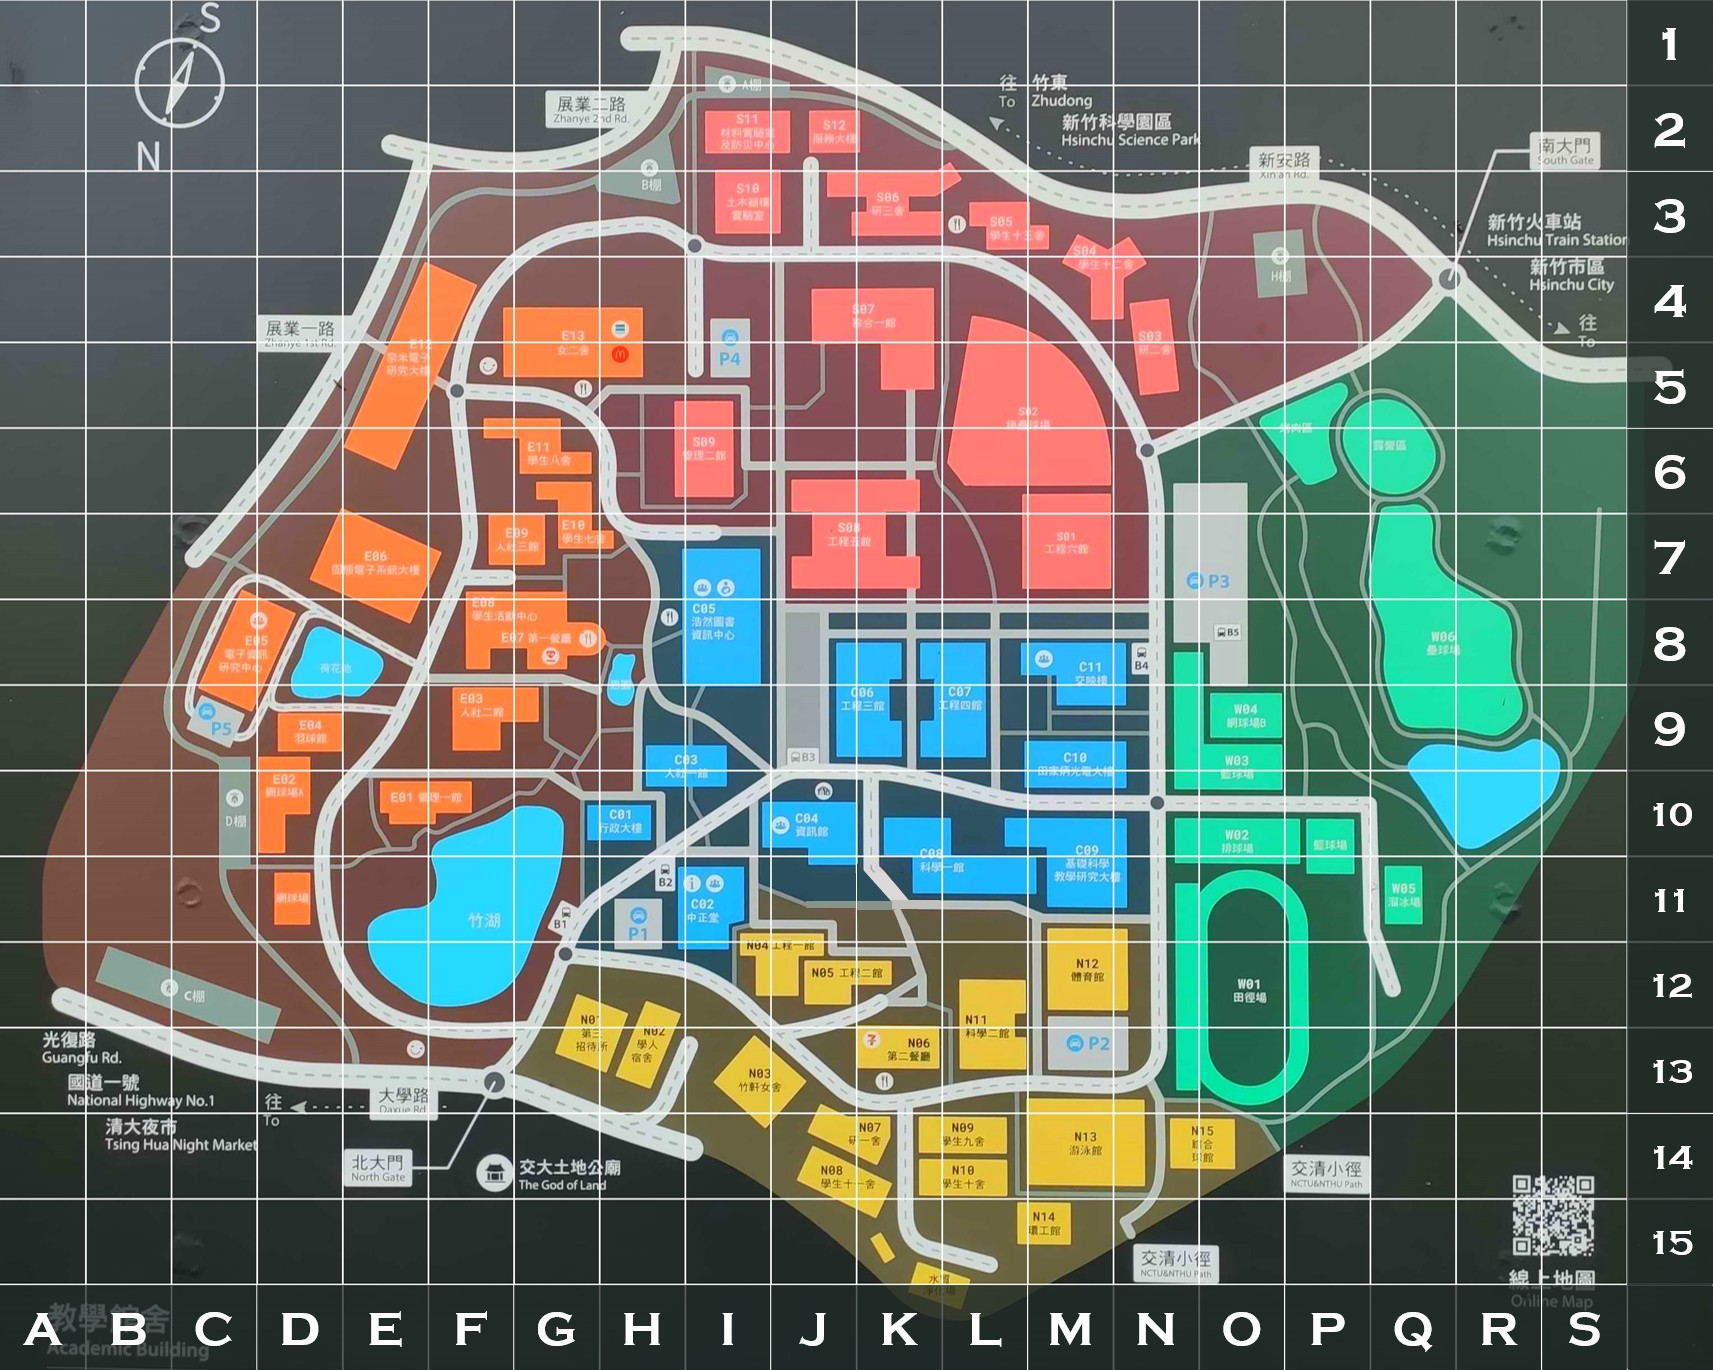
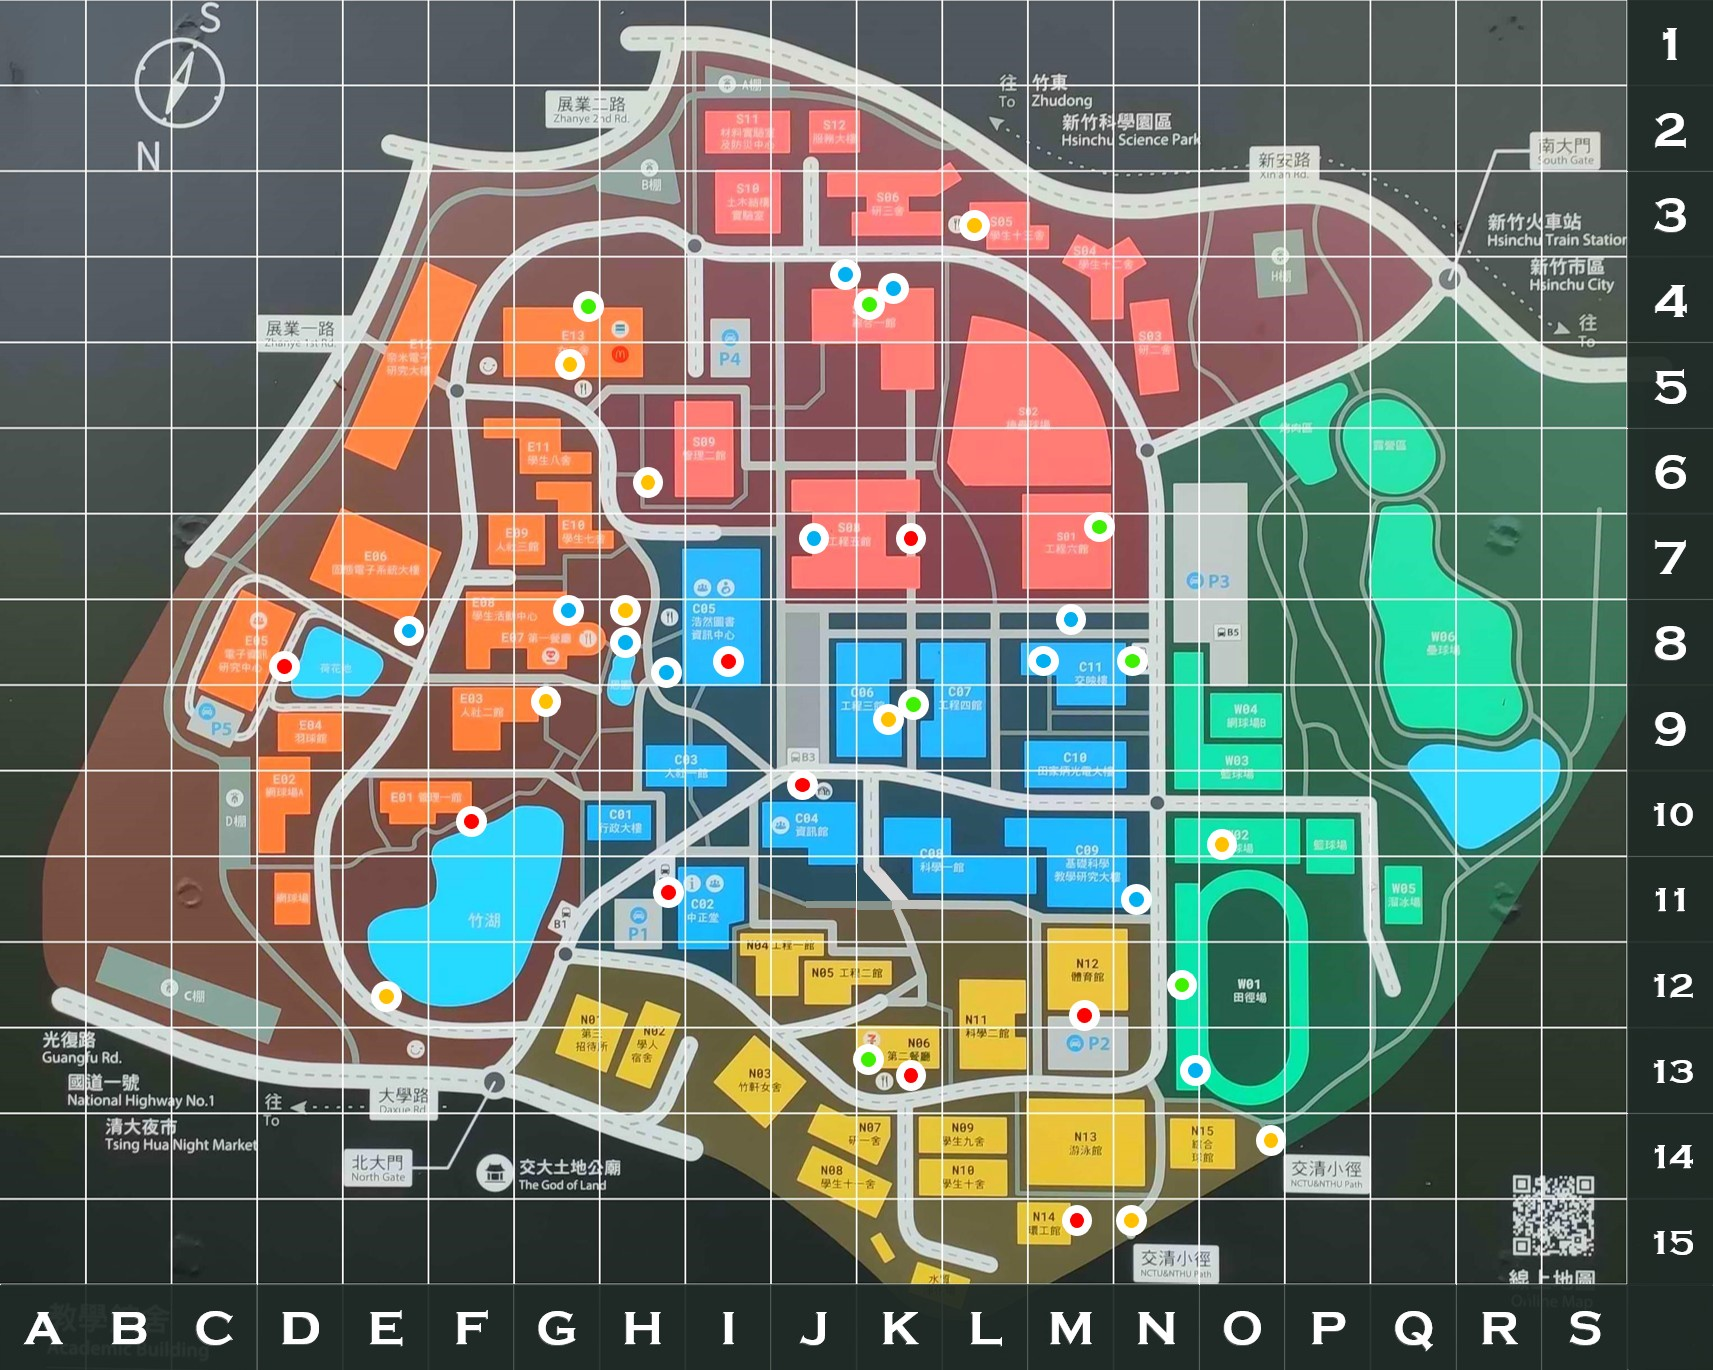
fixed everything i guess. --lr

diff --git a/client/src/components/ScoreList.js b/client/src/components/ScoreList.js
@@ -17,6 +17,7 @@ export default function Score(props) {
   const [tasksDone, setTasksDone] = useState([]);
   const [teams, setTeams] = useState([]);
   const [teamScore, setTeamScore] = useState([]);
+  const [ownScore, setOwnScore] = useState(0);
 
   useEffect(() => {
     const fetchData = async() => {
@@ -42,6 +43,17 @@ export default function Score(props) {
     })
   }, [socket]);
 
+  const loadOwnScore = useCallback( (tasksDone) => {
+    var team_score = 0;
+
+    tasksDone.forEach( (doneTask) => {
+      if (doneTask.teamId === user.teamId)
+        team_score += doneTask.score;
+    });
+
+    return team_score;
+  }, [user.teamId])
+
   const loadScore = useCallback( (tasksDone) => {
     var team_score = initTeamScore(teams);
     var over_cnt = 0;
@@ -60,11 +72,12 @@ export default function Score(props) {
 
   useEffect(() => {
     setTeamScore(loadScore(tasksDone));
-  }, [tasksDone, loadScore]);
+    setOwnScore(loadOwnScore(tasksDone));
+  }, [tasksDone, loadScore, loadOwnScore]);
 
   const initTeamScore = (teams) => {
     var team_score = {};
-    teams.forEach( (team) => team_score[team._id] = {_id: team._id, teamName: team.teamName, gold: 0, silver: 0, bronze: 0, iron: 0, score: 0 });
+    teams.forEach( (team) => team_score[team._id] = {_id: team._id, teamName: team.teamName, teamEmoji: team.teamEmoji, gold: 0, silver: 0, bronze: 0, iron: 0, score: 0 });
     return team_score;
   }
 
@@ -104,16 +117,17 @@ export default function Score(props) {
 
   const iterList = teamScore.map((ts, i) => {
     return (
-      <div className={`max-w-prose mx-auto rounded-xl shadow-md hover:shadow-xl p-8 ring-red-700 ${ts._id === user.teamId ? "ring-4" : ""}`} key = {"score_" + ts._id} style = {{background: i === 0 ? "#ffe552": i === 1 ? "#cdcdcd": i === 2 ? "#d28c47": "white"}}>
-        <Scoreboard teamId={ts._id} teamName={ts.teamName} gold={ts.gold} silver={ts.silver} bronze={ts.bronze} iron={ts.iron} score={ts.score}/>
+      <div className={`max-w-prose h-24 m-auto rounded-xl shadow-md hover:shadow-xl p-4 ${ts._id === user.teamId && "ring-4 ring-red-700"}`} key = {"score_" + ts._id} style = {{background: i === 0 ? "#ffe552" : "white"}}>
+        <Scoreboard teamEmoji={ts.teamEmoji} teamId={ts._id} teamName={ts.teamName} gold={ts.gold} silver={ts.silver} bronze={ts.bronze} iron={ts.iron} score={ts.score}/>
       </div>                
     );
   })
   
   return (
-    <div className="fixed left-0 top-0 h-screen w-full overflow-hidden bg-cusorange-500">
-      <h2 className="m-4 text-2xl overflow-hidden text-center">計分榜 {gamestatus.board_freeze ? "*Frozen*" : ""}</h2>
-      <div className="max-w-prose mx-auto p-8">
+    <div className="fixed left-0 top-0 flex flex-col h-screen w-full overflow-hidden bg-cusorange-500">
+      <h2 className="m-4 text-2xl text-center">計分榜 {gamestatus.board_freeze ? "*Frozen*" : ""}</h2>
+
+      <div className="w-full mx-auto p-8">
         <div className="grid grid-cols-6 place-items-center">
           <div className="text-center align-middle uppercase font-bold">team</div>
           <div className="text-center align-middle">
@@ -131,10 +145,14 @@ export default function Score(props) {
           <div className="text-center align-middle uppercase font-bold">score</div>
         </div>
       </div>
-      <FlipMove id="scoreList" className="space-y-4" enterAnimation='accordionVertical'
-        leaveAnimation='accordionVertical'>
-        {iterList}
-      </FlipMove>
+      <div className="flex flex-col w-full h-full p-5">
+        <FlipMove id="scoreList" className="space-y-4" enterAnimation='accordionVertical'
+          leaveAnimation='accordionVertical'>
+          {iterList}
+        </FlipMove>
+      </div>
+
+      <h3 className="m-4 text-2xl text-center">當前分數：{ownScore}</h3>
     </div>
   );
 }

diff --git a/client/src/layers/NewTasks.js b/client/src/layers/NewTasks.js
@@ -38,17 +38,17 @@ export default function Tasks(props) {
         <Map />
       </div>
       <div className={`fixed bottom-0 flex flex-col p-4 w-full overflow-y-hidden rounded bg-gray-400 ${isExpanded ? "h-full" : "h-1/3"}`}>
-        <button className="px-4 w-full mb-2 bg-gray-300 rounded" onClick={() => setIsExpanded((prev) => !prev)}> {`Tasks ${isExpanded ? "collapse" : "expand"}`} </button>
+        <button className="px-4 w-full mb-2 bg-gray-300 rounded" onClick={() => setIsExpanded((prev) => !prev)}> {`${isExpanded ? "收起" : "展開"}`} </button>
         <div className="flex flex-col w-full h-full overflow-y-scroll pl-4 rounded bg-gray-300">
           {tasks.filter(task => !task.done).map((item, i) => (
-            <div layout key={i} className={`flex flex-col py-2 w-full bg-area${item.qtype} rounded my-2 text-center ring-1 ring-gray-600`}>
-            <Item task={item} taskFocus={taskFocus} setTaskFocus={setTaskFocus}/>
+            <div key={i} className={`flex flex-col py-2 w-full rounded my-2 text-center ring-1 ring-gray-600 ${item.qtype === "A" ? "bg-areaA-400" : ""}${item.qtype === "C" ? "bg-areaC-400" : ""}${item.qtype === "E" ? "bg-areaE-400" : ""}${item.qtype === "N" ? "bg-areaN-400" : ""}${item.qtype === "S" ? "bg-areaS-400" : ""}${item.qtype === "W" ? "bg-areaW-400" : ""}`}>
+              <Item task={item} taskFocus={taskFocus} setTaskFocus={setTaskFocus}/>
             </div>
           ))}
 
           {tasks.filter(task => task.done).map((item, i) => (
-            <div layout key={i} className="flex flex-col py-2 w-full bg-gray-500 rounded my-2 text-center ring-1 ring-gray-900">
-            <Item task={item} taskFocus={taskFocus} setTaskFocus={setTaskFocus}/>
+            <div key={i} className={`flex flex-col py-2 w-full bg-gray-500 rounded my-2 text-center ring-1 ring-gray-900 ${item.qtype === "A" ? "bg-areaA-800" : ""}${item.qtype === "C" ? "bg-areaC-800" : ""}${item.qtype === "E" ? "bg-areaE-800" : ""}${item.qtype === "N" ? "bg-areaN-800" : ""}${item.qtype === "S" ? "bg-areaS-800" : ""}${item.qtype === "W" ? "bg-areaW-800" : ""}`}>
+              <Item task={item} taskFocus={taskFocus} setTaskFocus={setTaskFocus}/>
             </div>
           ))}
         </div>

diff --git a/api/routes/teamTask.js b/api/routes/teamTask.js
@@ -11,18 +11,15 @@ const shuffleArray = (array) => {
     }
 }
 
-const unlockTask = async(team_id, x, y, unlockCount) => {
-    x = parseInt(x)
-    y = parseInt(y)
-    
+const unlockTask = async(team_id, x, y, unlockCount, range) => {
     const teamTasks = await TeamTask.find({teamId: team_id});
-    const teamTaskIds = teamTasks.map((teamTask) => teamTask.taskId );
+    const teamTaskIds = teamTasks.map((teamTask) => teamTask.taskId);
     const tasks = await Task.find( {_id: {$nin: teamTaskIds}});
 
     // console.log(teamTaskIds);
     // console.log(tasks.map((t) => ({taskId: t._id})));
 
-    const reqMan = x + y;
+    const reqMan = parseInt(x) + parseInt(y);
     var randPickedTasks = tasks.sort(
         function(a, b){
             const aMan = a.locationX + a.locationY;
@@ -30,7 +27,7 @@ const unlockTask = async(team_id, x, y, unlockCount) => {
 
             return Math.abs(aMan - reqMan) - Math.abs(bMan - reqMan);
         }   
-    ).slice(0, 10);
+    ).slice(0, range);
     shuffleArray(randPickedTasks);
 
     randPickedTasks = randPickedTasks.slice(0, unlockCount);
@@ -63,7 +60,7 @@ router.get("/:teamId",async(req,res)=>{
 // randomly unlock new tasks
 router.post("/unlock/:teamId",async(req,res)=>{
     try{
-        const savePost = await unlockTask(req.params.teamId, req.body.locationX, req.body.locationY, 3); // unlockCount = 3
+        const savePost = await unlockTask(req.params.teamId, req.body.locationX, req.body.locationY, 3, 12); // unlockCount = 3
         res.status(200).json(savePost);
     }
     catch(err){
@@ -93,8 +90,6 @@ router.post("/done",async(req,res)=>{
         res.status(500).json(err);
     }
 })
-
-
 
 
 // add a new teamTask
@@ -136,7 +131,7 @@ router.post("/initTask",async(req,res)=>{
         
         const resTeams = await Team.find();
         resTeams.map( async(team) => (
-            await unlockTask(team.id, 0, 0, 4)
+            await unlockTask(team.id, 11, 9, 4, 20)
         ));
 
         res.status(200).json("initial successfully");

diff --git a/client/src/components/ChatList.js b/client/src/components/ChatList.js
@@ -7,6 +7,7 @@ import axios from "axios";
 export default function ChatList() {
   const {socket, user} = useContext(AuthContext)
   const [messages, setMessages] = useState([]);
+  const [teamJson, setTeamJson] = useState([]);
   const [arriveMessage, setArriveMessage] = useState("");
   const newMessage = useRef();
   const scrollRef = useRef();
@@ -14,12 +15,20 @@ export default function ChatList() {
   useEffect( () => {
     const fetchData = async() => {
       try {
-        const res = await axios.get("/backend/message");
-        setMessages(res.data);
+        const res1 = await axios.get("/backend/message");
+        setMessages(res1.data);
+
+        const res2 = await axios.get("/backend/team");
+        var teamjs = {};
+        res2.data.forEach(team => {
+          teamjs[team._id] = team;
+        });
+        setTeamJson(teamjs);
+        console.log(teamjs);
       } catch (err) {
         console.log(err);
       }
-      //console.log(messages);
+      
     }
     fetchData();
   }, []);
@@ -105,7 +114,7 @@ export default function ChatList() {
           }
         }}
       > 
-        <Chatbox message={msg} me={user.name} mode={"CHAT"}/>
+        <Chatbox message={msg} me={user.name} mode={"CHAT"} team={teamJson[msg.teamId]}/>
       </motion.li>
     );
   });
@@ -114,7 +123,7 @@ export default function ChatList() {
   return (
     
     <motion.div className="fixed flex flex-col h-full w-full left-0 top-0" >
-      <motion.h2 initial={{opacity: 0}} animate={{ opacity: 1 }} exit={{opacity: 0}} className="mt-6 mb-4 text-2xl overflow-hidden text-center"> Chat </motion.h2>
+      <motion.h2 initial={{opacity: 0}} animate={{ opacity: 1 }} exit={{opacity: 0}} className="mt-6 mb-4 text-2xl text-center"> 聊天室 </motion.h2>
       
       <motion.div className="p-4 flex flex-col h-full w-full place-items-center overflow-y-auto overflow-x-hidden">
         <motion.div className="flex flex-col h-full w-full overflow-y-auto overflow-x-hidden">

diff --git a/client/tailwind.config.js b/client/tailwind.config.js
@@ -52,13 +52,15 @@ module.exports = {
           800: '#53390B',
           900: '#261A05',
         },
-        areaA: '#fff',
-        areaC: '#27bbff',
-        areaE: '#fb874a',
-        areaN: '#ebc235',
-        areaS: '#ff7d75',
-        areaW: '#22e3ac',
-        silver: '#c0c0c0',
+        areaA: {  DEFAULT: '#FFFFFF',  '50': '#FFFFFF',  '100': '#FFFFFF',  '200': '#FFFFFF',  '300': '#FFFFFF',  '400': '#FFFFFF',  '500': '#FFFFFF',  '600': '#E6E6E6',  '700': '#CCCCCC',  '800': '#B3B3B3',  '900': '#999999'},
+        areaC: {  DEFAULT: '#27BBFF',  '50': '#FFFFFF',  '100': '#F3FBFF',  '200': '#C0EBFF',  '300': '#8DDBFF',  '400': '#5ACBFF',  '500': '#27BBFF',  '600': '#00A6F3',  '700': '#0084C0',  '800': '#00618D',  '900': '#003E5A'},
+        areaE: {  DEFAULT: '#FB874A',  '50': '#FFFFFF',  '100': '#FFFFFF',  '200': '#FEEAE0',  '300': '#FDC9AE',  '400': '#FCA87C',  '500': '#FB874A',  '600': '#FA6618',  '700': '#DA4E05',  '800': '#A83C04',  '900': '#762B03'},
+        areaN: {  DEFAULT: '#EBC235',  '50': '#FFFFFF',  '100': '#FDFAEF',  '200': '#F9ECC0',  '300': '#F4DE92',  '400': '#F0D063',  '500': '#EBC235',  '600': '#D8AC15',  '700': '#A98711',  '800': '#7B620C',  '900': '#4C3D08'},
+        areaS: {  DEFAULT: '#FF7D75',  '50': '#FFFFFF',  '100': '#FFFFFF',  '200': '#FFFFFF',  '300': '#FFDDDB',  '400': '#FFADA8',  '500': '#FF7D75',  '600': '#FF4D42',  '700': '#FF1D0F',  '800': '#DB0D00',  '900': '#A80A00'},
+        areaW: {  DEFAULT: '#22E3AC',  '50': '#EEFDF8',  '100': '#D7FAF0',  '200': '#AAF4DF',  '300': '#7DEECE',  '400': '#4FE9BD',  '500': '#22E3AC',  '600': '#18BA8C',  '700': '#128D6A',  '800': '#0C6048',  '900': '#063326'},
+        silver: {
+          DEFAULT: '#c0c0c0',
+        },
       }
     },
   },

diff --git a/client/src/components/Chatbox.js b/client/src/components/Chatbox.js
@@ -45,7 +45,7 @@ function WelcomeForm(props){
 function LeftForm(props){
   return(
     <motion.div className="flex space-x-2 px-1 py-2 float-left">
-      <motion.div className="rounded">{props.message?.name}</motion.div>
+      <motion.div className="rounded">{props.team?.teamEmoji} {props.message?.name}</motion.div>
       <motion.div 
         className="
         mx-2
@@ -76,7 +76,7 @@ function RightForm(props){
         "
       > {props.message?.content} </motion.div>
 
-      <motion.div className="rounded">{props.message?.name}</motion.div>
+      <motion.div className="rounded">{props.message?.name} {props.team?.teamEmoji} </motion.div>
     </motion.div>
   )
 }
@@ -93,9 +93,9 @@ function ShowForm(props){
         return <SystemForm message={props.message}/>
       else
         if (props?.me === props?.message.name)
-          return <RightForm message={props.message}/>
+          return <RightForm message={props.message} team={props.team}/>
         else
-          return <LeftForm message={props.message}/>
+          return <LeftForm message={props.message} team={props.team}/>
     default:
       return ""
   }
@@ -108,7 +108,7 @@ export default function Chatbox(props) {
       whileHover={{ scale: 1.1 }}
       whileTap={{ scale: 0.95 }}
     >
-      {props?.message && <ShowForm message={props.message} me={props.me} mode={props.mode}/>}
+      {props?.message && <ShowForm message={props.message} me={props.me} mode={props.mode} team={props.team}/>}
     </motion.div>
   );
 }

diff --git a/client/src/pages/Home.js b/client/src/pages/Home.js
@@ -26,7 +26,7 @@ export default function Home() {
         return(
           <>
             <Admin />
-            {gamestatus.in_game ? <Member /> : "Game hasen't started"}
+            {gamestatus.in_game ? <Member /> : "遊戲尚未開始"}
           </>
         )
 
@@ -34,14 +34,14 @@ export default function Home() {
         return(
           <>
             <Lead />
-            {gamestatus.in_game ? <Member /> : "Game hasen't started"}
+            {gamestatus.in_game ? <Member /> : "遊戲尚未開始"}
           </>
         );
 
       case "MEMBER":
         return(
           <>
-            {gamestatus.in_game ? <Member /> : "Game isn't started"}
+            {gamestatus.in_game ? <Member /> : "遊戲尚未開始"}
           </>
         );
 

diff --git a/client/src/components/Scoreboard.js b/client/src/components/Scoreboard.js
@@ -1,7 +1,7 @@
 export default function ScoreBoard(props) {
   return (
     <div className="grid grid-cols-6 place-items-center">
-      <div className="text-center align-middle uppercase font-bold">{props.teamName}</div>
+      <div className="text-center align-middle uppercase font-bold m-auto"><div>{props.teamEmoji}</div>{props.teamName}</div>
       <Scoreitem text={props.gold} />
       <Scoreitem text={props.silver} />
       <Scoreitem text={props.bronze} />

diff --git a/client/src/components/Task.js b/client/src/components/Task.js
@@ -29,7 +29,7 @@ export default function Task(props) {
         socket.emit("answered correct", user.teamId, newTasks.data, res.data);
         answerText.current.value = "";
 
-        alert (`回答正確! 獲得${newTasks.score}分`);
+        alert (`回答正確! 獲得${res.data.score}分`);
       }catch(err){
         console.log(err);
         return;

diff --git a/client/src/pages/Lock.js b/client/src/pages/Lock.js
@@ -46,7 +46,7 @@ export default function Lock() {
   }
 
   return (
-    <div className="flex">      
+    <div className="fixed h-screen w-screen grid place-content-center">      
       <form className="py-3 px-4 rounded-lg" onSubmit={checkAns}>
         <input 
           className="w-36 my-2 ml-4" 

diff --git a/api/models/Team.js b/api/models/Team.js
@@ -5,6 +5,14 @@ const TeamSchema = new mongoose.Schema({
         type:String,
         required:true,
     },
+    teamEmoji:{
+        type:String,
+        required:true,
+    },
+    teamColor:{
+        type:String,
+        required:true,
+    },
 },
 {timestamps:true}
 );
